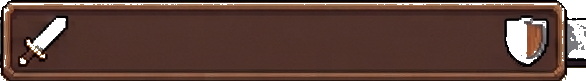
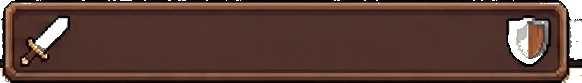
Base/modais: fix travamento, altura, vao/botao e placa (espada+escudo)
- Modais agora fecham por botao ✕ e por clique no fundo, e ROLAM quando altos
  (Forja/Academia nao prendem mais o jogador); place-items:start + overflow-y:auto
- Base cabe na tela sem scroll: inventario vira faixa horizontal rolavel,
  loja de gambits com rolagem interna, paddings menores
- Botao 'Partir em Expedicao' sai do meio do hub e vira barra fixa no rodape
  (com engrenagem); vao entre as duas janelas reduzido
- Placa (ribbon) reextraida sem apagar o metal claro -> espada e escudo inteiros
- Textos de slot encurtados (vazio / Nv x/5); subtitulo da Forja sem titulo duplicado

Claude-Session: https://claude.ai/code/session_01EbSkREzXFkmQR9kLV1N6oq

Changed region(s): [[0.0, 0.0, 1.0, 1.0]]

diff --git a/vibe-gambit/index.html b/vibe-gambit/index.html
@@ -43,7 +43,7 @@
   .base-frame > *{image-rendering:auto}
   /* placa: aspect-ratio real (586x81) pra NÃO esticar/cortar espada+escudo, acima da moldura */
   .base-title{position:absolute;top:-24px;left:50%;transform:translateX(-50%);z-index:4;
-    width:min(370px,54%);aspect-ratio:586/81;
+    width:min(370px,54%);aspect-ratio:582/83;
     background:url(assets/ribbon.png) center/100% 100% no-repeat;image-rendering:pixelated;
     display:flex;align-items:center;justify-content:center;
     color:#f7ead0;font-size:14px;font-weight:900;letter-spacing:.4px;
@@ -91,7 +91,7 @@
   .npc-box{display:flex;align-items:center;gap:10px;background:#fff8e8;border:1px solid var(--line);border-radius:10px;padding:6px 10px}
   .npc-box .npc{width:64px;height:auto;aspect-ratio:184/260;image-rendering:pixelated;flex:none}
   .npc-say{font-size:13px;font-style:italic;color:var(--ink2);font-weight:700}
-  .shop-list{display:flex;flex-direction:column;gap:6px}
+  .shop-list{display:flex;flex-direction:column;gap:6px;max-height:206px;overflow-y:auto}
   .shop-item{display:flex;align-items:center;gap:6px;background:#fff8e8;border:1px solid var(--line);
     border-radius:9px;padding:6px 8px;min-width:0}
   .shop-item.owned{opacity:.72}
@@ -99,9 +99,8 @@
   .si-cost{font-size:13px;white-space:nowrap} .si-owned{font-size:12px;font-weight:800;color:var(--heal)}
   .shop-buy{padding:5px 10px;font-size:12.5px;flex:none}
 
-  /* rodapé: engrenagem + botão dourado */
-  .hub-foot{display:flex;align-items:center;gap:10px;margin-top:12px}
-  .hub-foot-spacer{display:none}
+  /* rodapé de AÇÕES da base (fora do hub escalado): engrenagem + botão dourado */
+  .base-actions{display:flex;align-items:center;gap:9px;max-width:460px;margin:2px auto 0}
   .hub-gear{flex:none;width:46px;height:46px;padding:0;font-size:20px;border-radius:10px}
   .gold-cta{flex:1;background:linear-gradient(180deg,#ffd76b,#eab032);border:2px solid #c88f20;
     color:#4a3410;font-size:17px;font-weight:900;text-shadow:0 1px 0 #ffe9a8;
@@ -120,13 +119,13 @@
   .party-card.sel{box-shadow:0 0 0 2px var(--acc,#8a6a34),0 2px 6px rgba(30,20,8,.25)}
 
   /* --- painel inferior: DETALHES + INVENTÁRIO (mesma moldura das janelas) --- */
-  .detail-frame{position:relative;margin:18px auto 6px;max-width:460px;
+  .detail-frame{position:relative;margin:6px auto 4px;max-width:460px;
     border:18px solid transparent;border-image:url(assets/frame9.png) 46 round;
     background:var(--panel);background-clip:padding-box;border-radius:10px;
     padding:16px 12px 12px;image-rendering:pixelated}
   .detail-frame > *{image-rendering:auto}
   .detail-title{position:absolute;top:-22px;left:50%;transform:translateX(-50%);z-index:4;
-    width:min(300px,74%);aspect-ratio:586/81;background:url(assets/ribbon.png) center/100% 100% no-repeat;image-rendering:pixelated;
+    width:min(300px,74%);aspect-ratio:582/83;background:url(assets/ribbon.png) center/100% 100% no-repeat;image-rendering:pixelated;
     display:flex;align-items:center;justify-content:center;color:#f7ead0;font-size:13px;font-weight:900;text-shadow:0 1px 0 #2c1a0c,0 0 3px #2c1a0c}
   .detail-title span{image-rendering:auto;padding-bottom:2px}
   .detail-body{display:flex;flex-direction:column;gap:10px}
@@ -144,14 +143,15 @@
   .ds-ic{font-size:22px;flex:none;line-height:1} .ds-tx{min-width:0} .ds-tx b{display:block;font-size:12px;color:var(--ink)} .ds-tx small{font-size:10px;color:var(--dim);white-space:nowrap;overflow:hidden;text-overflow:ellipsis;display:block}
   .ds-x{position:absolute;top:3px;right:6px;font-size:11px;color:var(--enemy);font-weight:900}
   .inv-cap{font-size:13px;font-weight:900;color:var(--ink2);margin-top:2px} .inv-cap small{font-weight:700;font-size:10px;color:var(--dim)}
-  .inv-grid{display:grid;grid-template-columns:1fr 1fr;gap:7px}
-  .inv-item{display:grid;grid-template-columns:auto 1fr;grid-template-rows:auto auto;column-gap:9px;align-items:center;
+  /* inventário: faixa HORIZONTAL rolável (economiza altura) */
+  .inv-grid{display:flex;gap:7px;overflow-x:auto;padding-bottom:4px;-webkit-overflow-scrolling:touch;scrollbar-width:thin}
+  .inv-item{flex:0 0 158px;display:grid;grid-template-columns:auto 1fr;grid-template-rows:auto auto;column-gap:9px;align-items:center;
     background:#fff8e8;border:1px solid var(--line);border-radius:10px;padding:7px 10px;text-align:left;box-shadow:none;min-width:0}
-  .inv-item .ii-ic{grid-row:1/3;font-size:26px;line-height:1} .ii-nm{font-size:12.5px;font-weight:900;color:var(--ink);white-space:nowrap;overflow:hidden;text-overflow:ellipsis} .ii-bo{font-size:10.5px;font-weight:800;color:var(--heal)}
+  .inv-item .ii-ic{grid-row:1/3;font-size:26px;line-height:1} .ii-nm{font-size:12.5px;font-weight:900;color:var(--ink);white-space:nowrap;overflow:hidden;text-overflow:ellipsis} .ii-bo{font-size:10.5px;font-weight:800;color:var(--heal);white-space:nowrap}
   .ii-slot{display:none}
   .inv-item.r-raro{border-color:#a98be6;box-shadow:inset 0 0 0 1px #cbb8f0}
   .inv-item:active{transform:translateY(1px)}
-  .inv-empty{grid-column:1/-1;text-align:center;color:var(--dim);font-size:12px;padding:12px}
+  .inv-empty{text-align:center;color:var(--dim);font-size:12px;padding:12px;flex:1}
   .loot .drop{color:var(--purple);font-weight:800}
 
   /* --- Editor de Gambits (HUD estilo FF XII) --- */
@@ -347,7 +347,10 @@
   .log .sys{color:var(--gold-d)}
 
   /* ---------- modal ---------- */
-  .modal{position:fixed;inset:0;background:#000b;display:grid;place-items:center;z-index:30;padding:16px}
+  .modal{position:fixed;inset:0;background:#000b;display:grid;place-items:start center;z-index:30;padding:16px;overflow-y:auto}
+  .modal .box{position:relative;margin:auto}
+  .modal-x{position:absolute;top:8px;right:8px;z-index:2;width:34px;height:34px;padding:0;font-size:15px;border-radius:9px;
+    background:linear-gradient(180deg,#8a95a2,#5f6772);border:2px solid #3f454d;color:#fff;font-weight:900;box-shadow:0 2px 0 #3f454d}
   .modal .box{background:var(--panel);background-clip:padding-box;
     border:17px solid transparent;border-image:url(assets/frame9.png) 46 round;border-radius:14px;
     padding:16px 16px 14px;width:100%;max-width:400px;text-align:center;box-shadow:0 16px 50px rgba(0,0,0,.55);image-rendering:pixelated}

diff --git a/vibe-gambit/src/game.js b/vibe-gambit/src/game.js
@@ -146,14 +146,14 @@ function renderBase(){
             <div class="hub-center" id="hub-center"></div>
             <div class="hub-panel hub-right" id="hub-right"></div>
           </div>
-          <div class="hub-foot">
-            <button class="hub-gear" title="Opções">⚙</button>
-            <button class="gold-cta" id="hub-cta">⚔ Partir em Expedição</button>
-          </div>
         </div>
       </div>
     </div>
-    <div class="base-frame detail-frame" id="detail-frame"></div>`;
+    <div class="base-frame detail-frame" id="detail-frame"></div>
+    <div class="base-actions">
+      <button class="hub-gear" title="Opções">⚙</button>
+      <button class="gold-cta" id="hub-cta">⚔ Partir em Expedição</button>
+    </div>`;
   renderHubParty($('hub-left'));
   renderHubCenter($('hub-center'));
   renderHubShop($('hub-right'));
@@ -213,12 +213,12 @@ function renderDetail(){
   const slotsHTML = EQUIP_SLOTS.map(s=>{
     if(s.key==='weapon'){
       return `<button class="d-slot on" data-slot="weapon" style="--acc:${accentOf(hs.id)}">
-        <span class="ds-ic">⚔</span><span class="ds-tx"><b>Arma</b><small>Nível ${hs.weaponLevel}/5 · Forja</small></span></button>`;
+        <span class="ds-ic">⚔</span><span class="ds-tx"><b>Arma</b><small>Nv ${hs.weaponLevel}/5</small></span></button>`;
     }
     const it = ITEMS[eq[s.key]];
     return `<button class="d-slot ${it?'on':''}" data-slot="${s.key}" style="--acc:${accentOf(hs.id)}">
       <span class="ds-ic" style="${it?'':'opacity:.4'}">${it?it.icon:s.icon}</span>
-      <span class="ds-tx"><b>${s.label}</b><small>${it?it.name:'— vazio —'}</small></span>
+      <span class="ds-tx"><b>${s.label}</b><small>${it?it.name:'vazio'}</small></span>
       ${it?'<span class="ds-x" title="Desequipar">✕</span>':''}</button>`;
   }).join('');
   const inv = S.inventory || [];
@@ -294,6 +294,7 @@ let ghHero = null;
 function openGambitHUD(){
   if(!ghHero || !S.heroes.find(h=>h.id===ghHero)) ghHero = selHero || S.heroes[0].id;
   $('modal-root').innerHTML = `<div class="modal"><div class="box box-wide gh-box">
+    <button class="modal-x" title="Fechar">✕</button>
     <h2>🧠 Editor de Gambits</h2>
     <p class="muted tiny gh-lede">Programe a IA de cada herói. A cada turno a lista é lida de <b>cima → baixo</b>; a <b>1ª condição verdadeira</b> executa sua ação e <b>para</b>.</p>
     <div id="gh-mount"></div>
@@ -301,6 +302,7 @@ function openGambitHUD(){
   </div></div>`;
   renderGambitHUD($('gh-mount'));
   $('gh-close').onclick = closeModal;
+  bindModalDismiss();
 }
 function renderGambitHUD(mount){
   const hs = S.heroes.find(h=>h.id===ghHero); const def = HERO_DEFS.find(h=>h.id===hs.id);
@@ -372,16 +374,25 @@ function renderHubShop(mount){
 
 // ---- MODAIS ----
 function closeModal(){ $('modal-root').innerHTML=''; }
+// fecha por clique no fundo escuro + botão ✕
+function bindModalDismiss(){
+  const m = $('modal-root').querySelector('.modal'); if(!m) return;
+  m.addEventListener('click', e => { if(e.target === m) closeModal(); });
+  const x = m.querySelector('.modal-x'); if(x) x.onclick = closeModal;
+}
 function openPanelModal(title, renderFn){
   $('modal-root').innerHTML = `<div class="modal"><div class="box box-wide">
+    <button class="modal-x" title="Fechar">✕</button>
     <h2>${title}</h2><div id="pm-body" style="text-align:left"></div>
     <div class="row" style="justify-content:center;margin-top:12px"><button id="pm-close">Fechar</button></div>
   </div></div>`;
   renderFn($('pm-body'));
   $('pm-close').onclick = closeModal;
+  bindModalDismiss();
 }
 function openOptions(){
   $('modal-root').innerHTML = `<div class="modal"><div class="box">
+    <button class="modal-x" title="Fechar">✕</button>
     <h2>⚙ Opções</h2>
     <div class="row" style="justify-content:center;margin-top:10px">
       <button class="primary" id="op-save">💾 Salvar agora</button>
@@ -393,6 +404,7 @@ function openOptions(){
   $('op-save').onclick  = () => { save(S); $('op-msg').textContent='Progresso salvo ✓'; };
   $('op-reset').onclick = () => { if(confirm('Reiniciar todo o progresso?')){ const n=newGame(); Object.assign(S,n); save(S); closeModal(); renderHud(); renderBase(); } };
   $('op-close').onclick = closeModal;
+  bindModalDismiss();
 }
 
 function heroRuntimeStats(hs){
@@ -409,7 +421,7 @@ function heroRuntimeStats(hs){
 
 function renderForge(body, onlyId){
   const list = onlyId ? S.heroes.filter(h=>h.id===onlyId) : S.heroes;
-  body.innerHTML = `${onlyId?'':'<h3 style="padding:0 2px 8px">🔨 Forja — melhore as armas (ATK permanente)</h3>'}
+  body.innerHTML = `${onlyId?'':'<p class="muted tiny" style="margin:0 2px 10px;text-align:center">Melhore as armas — bônus de ATK permanente.</p>'}
     <div class="hero-cards">${list.map(hs=>{
       const {def, atk} = heroRuntimeStats(hs);
       const next = FORGE_LEVELS[hs.weaponLevel];
